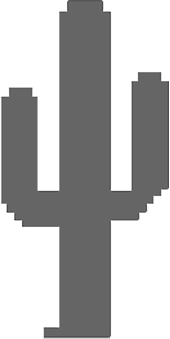
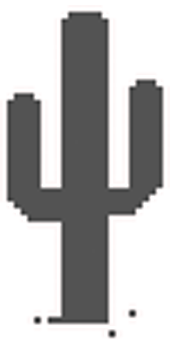
enemy bird - with error

Changed region(s): [[0.0, 0.0, 1.0, 1.0], [0.7353, 0.9145, 0.8235, 0.944]]

diff --git a/main.py b/main.py
@@ -3,6 +3,7 @@ import webcam
 from Dino import Dino
 from Ground import Ground
 from Cactus import Cactus
+from Dragon import Dragon
 
 
 class Game(arcade.Window):
@@ -17,7 +18,9 @@ class Game(arcade.Window):
         self.dino = Dino()
         self.grounds = arcade.SpriteList()
         self.cactuses = arcade.SpriteList()
+        self.dragons = arcade.SpriteList()
         self.cactus_create_at = time.time()
+        self.dragon_create_at = time.time()
 
         for i in range(0, self.w + 132, 132):
             ground = Ground(i, 50)
@@ -40,6 +43,9 @@ class Game(arcade.Window):
             for cactus in self.cactuses:
                 cactus.draw()
 
+            for dragon in self.dragons:
+                dragon.draw()
+
         self.dino.draw()
 
     def on_update(self, delta_time: float):
@@ -55,7 +61,7 @@ class Game(arcade.Window):
                 if self.physics_engine.can_jump():
                     self.dino.change_y = 15
 
-            if random.random() < 0.02 and (now - self.cactus_create_at > 3):
+            if random.random() < 0.025 and (now - self.cactus_create_at > 3):
                 self.cactuses.append(Cactus(self.w))
                 self.cactus_create_at = time.time()
 
@@ -66,6 +72,17 @@ class Game(arcade.Window):
 
                 if arcade.check_for_collision(self.dino, cactus):
                     self.game_over = True
+            
+            if self.msec > 300:
+                if random.random() < 0.025 and (now - self.dragon_create_at > 3):
+                    self.dragons.append(Dragon(self.w))
+                    self.dragon_create_at = time.time()
+
+                for dragon in self.dragons:
+                    dragon.flapping(self.msec)
+                    dragon.update()
+                    if dragon.center_x < 0:
+                        self.dragons.remove(dragon)
 
             for ground in self.grounds:
                 if ground.center_x < 0:

diff --git a/Dragon.py b/Dragon.py
@@ -1,0 +1,17 @@
+import arcade, random
+
+class Dragon(arcade.AnimatedWalkingSprite):
+    def __init__(self, w):
+        super().__init__()
+        self.walk_right_textures = [arcade.load_texture('img/enemy-bird-0.png'), arcade.load_texture('img/enemy-bird-1.png')]
+        self.center_x = w + 30
+        self.center_y = random.randint(220, 300)
+        self.change_x = -6
+        self.change_y = 0
+        self.scale = 0.7
+
+    def flapping(self, s):
+        if s % 2 == 0:
+            self.texture = arcade.load_texture('img/enemy-bird-0.png')
+        else:
+            self.texture = arcade.load_texture('img/enemy-bird-1.png')

diff --git a/Cactus.py b/Cactus.py
@@ -6,7 +6,7 @@ class Cactus(arcade.Sprite):
         self.picture = random.choice(['img/cactus1.png', 'img/cactus2.png', 'img/cactus3.png'])
         self.texture = arcade.load_texture(self.picture)
         self.center_x = w + 30
-        self.center_y = 125
+        self.center_y = 115
         self.change_x = -6
         self.change_y = 0
-        self.scale = 0.3
+        self.scale = 0.25
